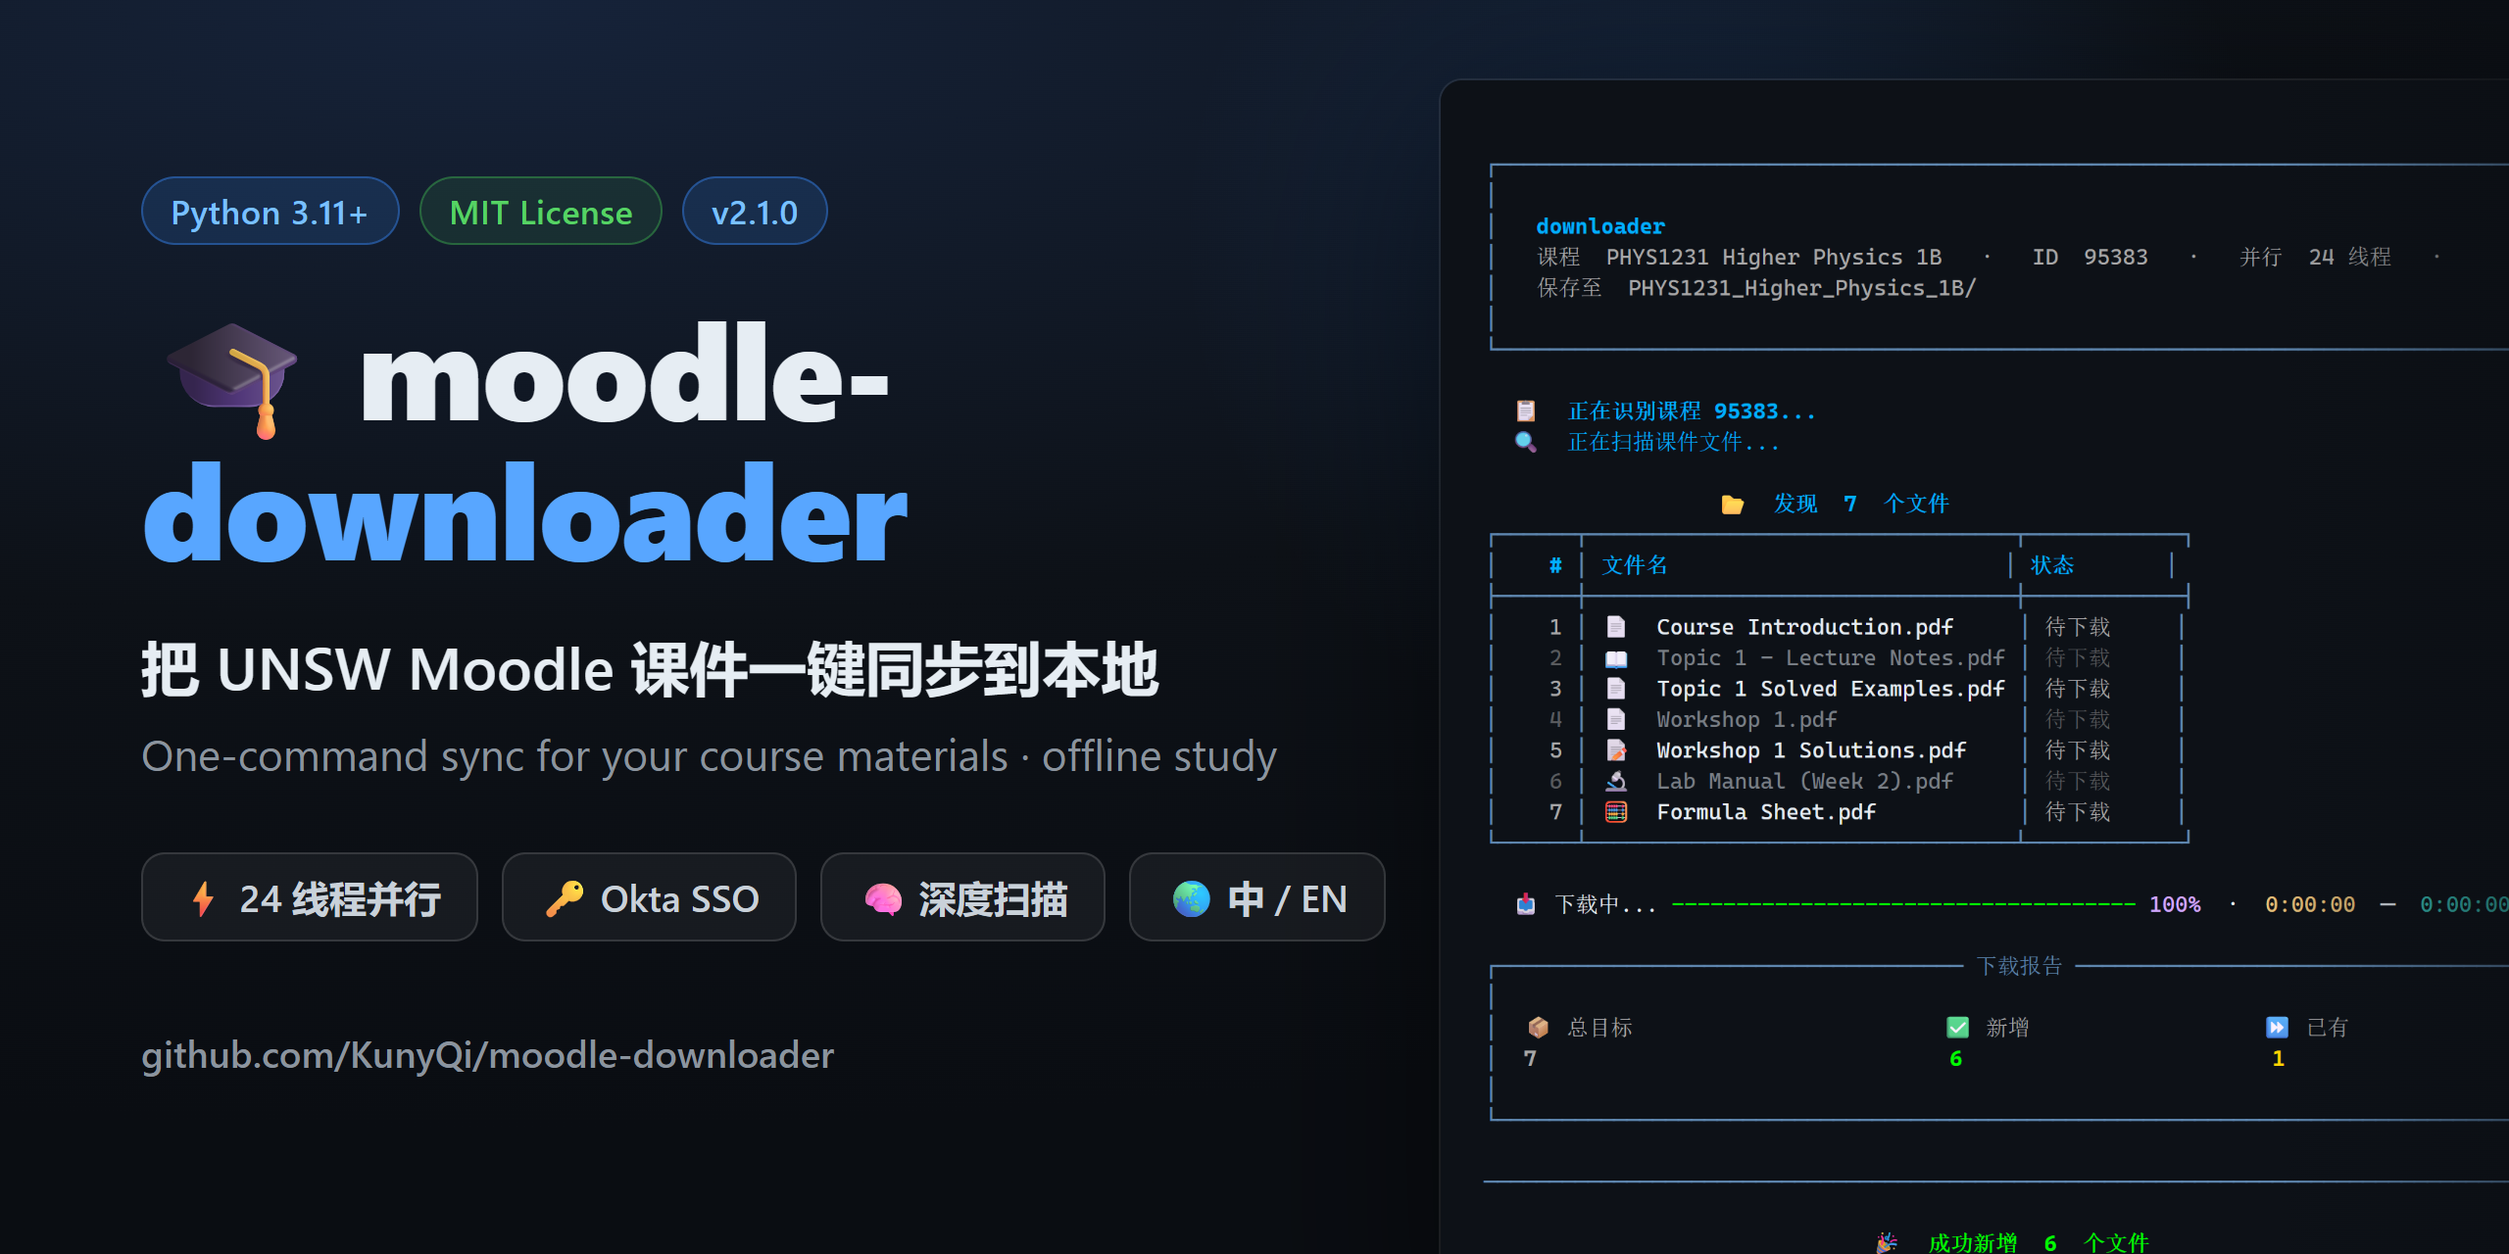
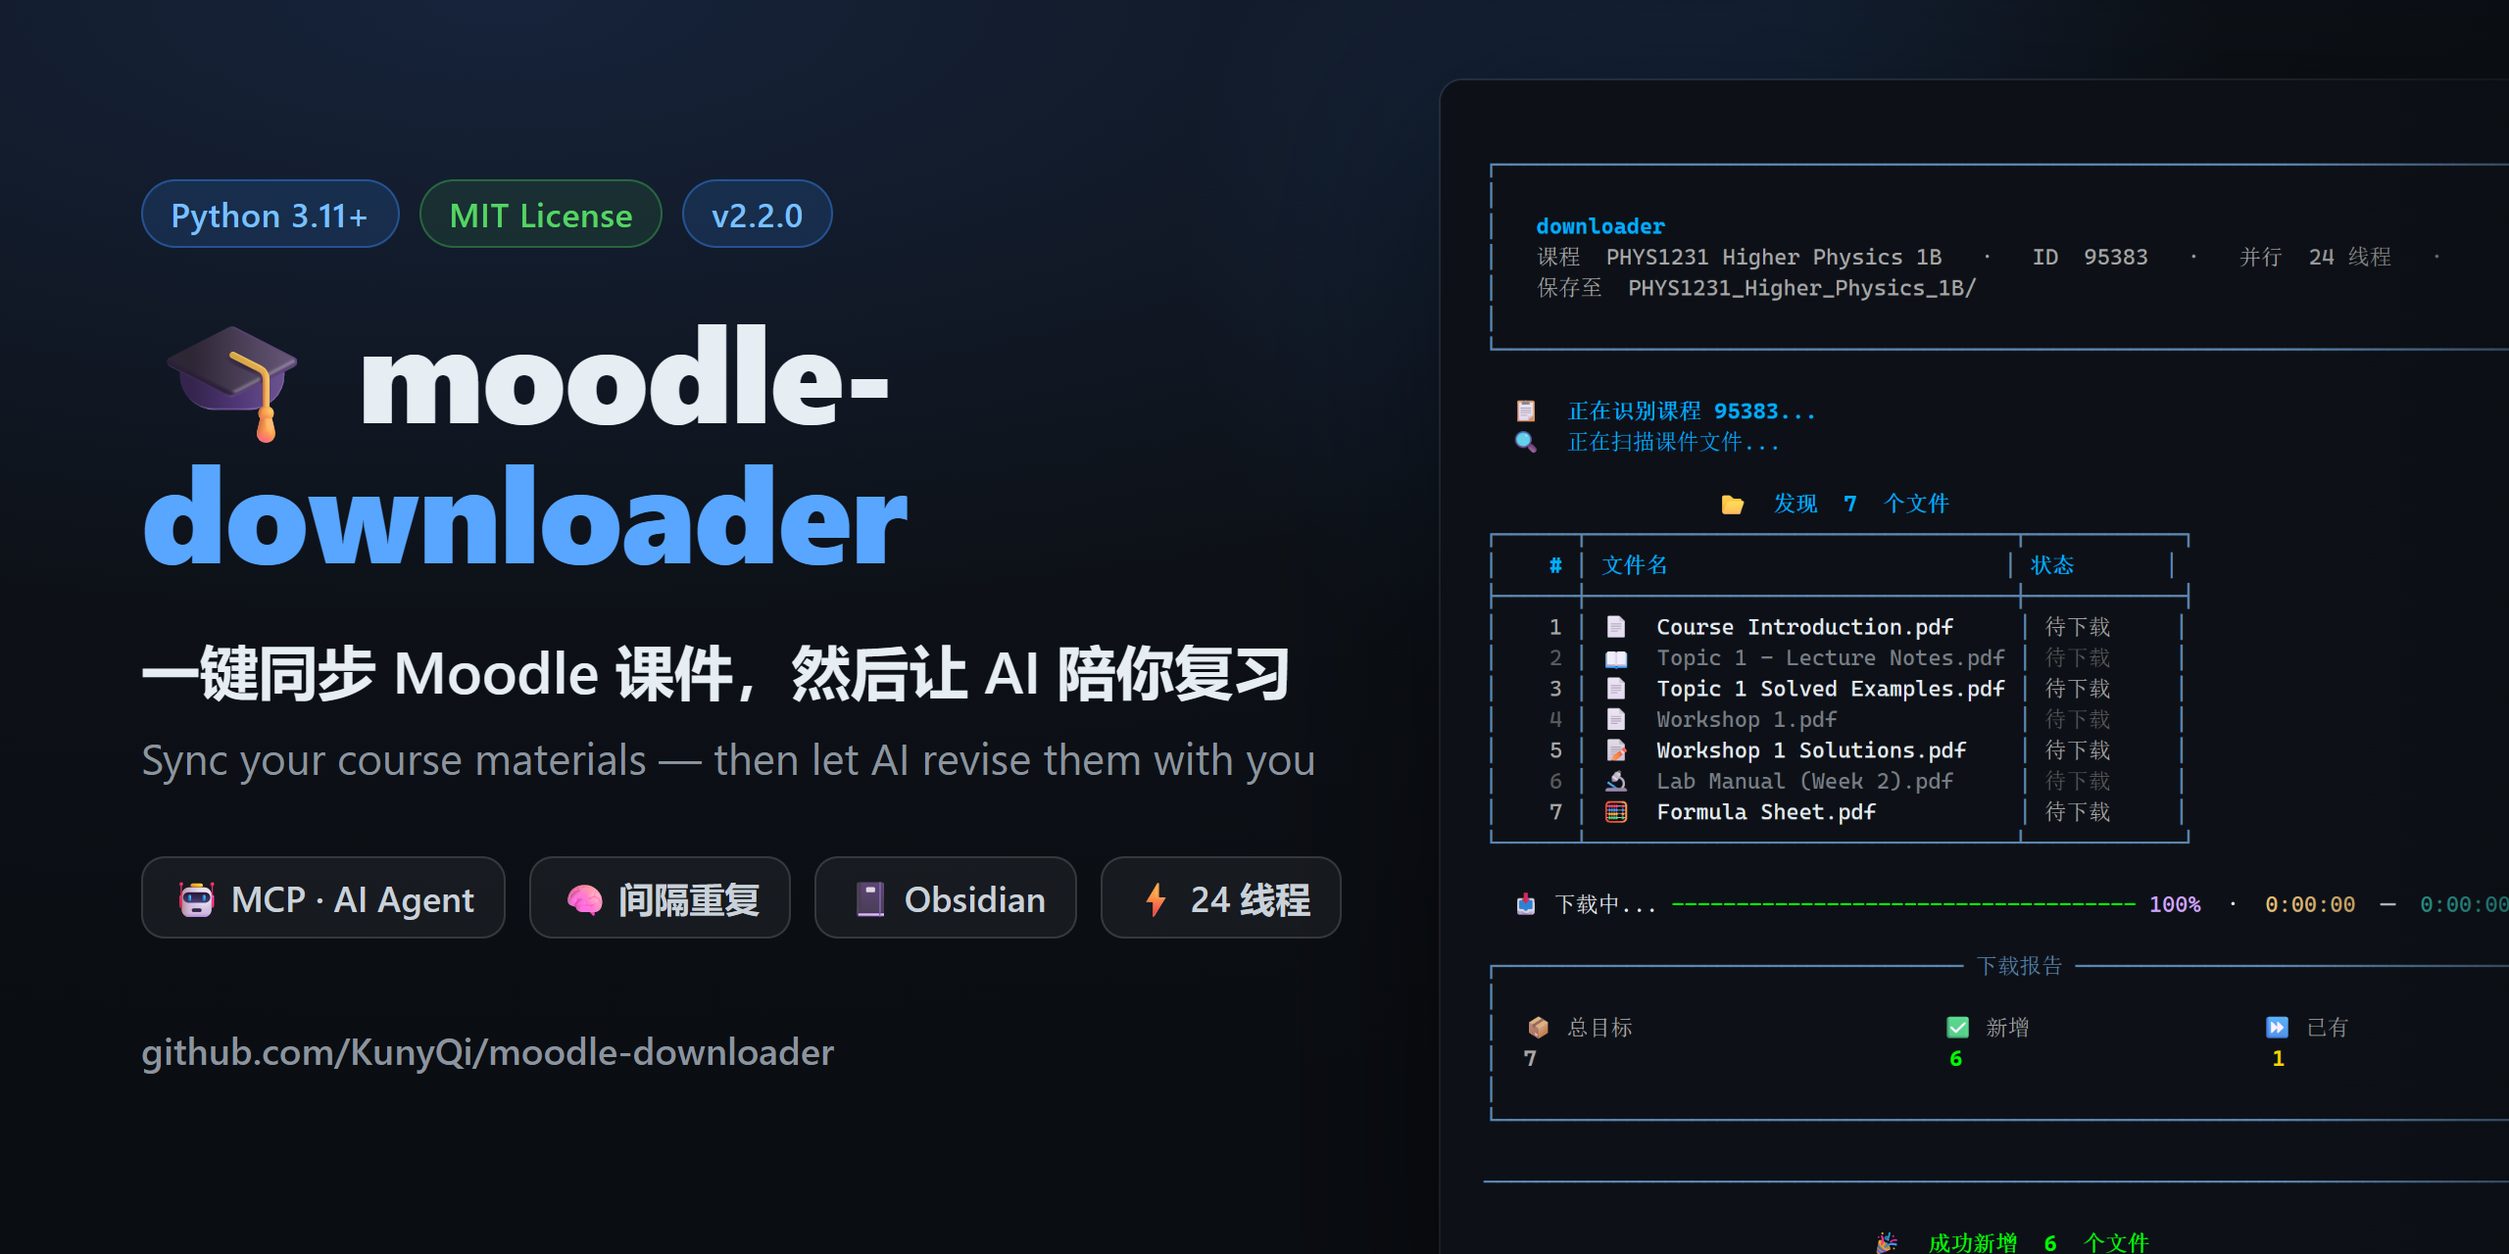
README 主打 AI 定位：主视觉、亮点与社交卡片同步更新
AI 学习层此前埋在配置章节之后，改为前置为核心卖点：

- 主标语改为「一键同步 Moodle 课件，然后让 AI 陪你复习」，
  新增 MCP 徽章与副标题条，版本徽章指向 releases
- 简介段落新增 AI 层介绍与跳转链接；工作原理补第 5 步「交给 AI」
- 亮点清单前三条改为 AI Agent 接入 / 间隔重复复习 / Obsidian + Jupyter，
  并补充「隐私优先」一条
- AI 章节新增真实对话示例，展示接上 agent 后可以直接说什么
- 新增两条 FAQ：AI 功能是否上传课件（如实说明云端 agent 会收到被读取的内容）、
  不用 AI 能否使用
- 章节锚点改用显式 HTML id，避免中文与 emoji 标题的锚点失效
- 社交卡片重做为 AI 定位（MCP · AI Agent / 间隔重复 / Obsidian / 24 线程），
  版本更新至 v2.2.0
- 中英两版内容镜像

未夸大：笔记中的「摘要」为提取的原文而非 AI 生成，文案未称其为 AI 摘要；
未声称任何厂商专有集成。

diff --git a/scripts/social_preview.html b/scripts/social_preview.html
@@ -33,8 +33,8 @@
   .tag-en { margin-top: 10px; font-size: 22px; color: #8b949e; }
   .chips { display: flex; flex-wrap: wrap; gap: 12px; margin-top: 36px; }
   .chip {
-    font-size: 19px; font-weight: 600;
-    padding: 9px 18px; border-radius: 12px;
+    font-size: 18px; font-weight: 600;
+    padding: 8px 15px; border-radius: 12px;
     background: rgba(255,255,255,.05);
     border: 1px solid rgba(255,255,255,.13);
     color: #c9d1d9;
@@ -69,16 +69,16 @@
     <div class="badge-row">
       <span class="mini-badge">Python 3.11+</span>
       <span class="mini-badge green">MIT License</span>
-      <span class="mini-badge">v2.1.0</span>
+      <span class="mini-badge">v2.2.0</span>
     </div>
     <h1>🎓 moodle-<span class="accent">downloader</span></h1>
-    <div class="tag-zh">把 UNSW Moodle 课件一键同步到本地</div>
-    <div class="tag-en">One-command sync for your course materials · offline study</div>
+    <div class="tag-zh">一键同步 Moodle 课件，然后让 AI 陪你复习</div>
+    <div class="tag-en">Sync your course materials — then let AI revise them with you</div>
     <div class="chips">
-      <span class="chip">⚡ 24 线程并行</span>
-      <span class="chip">🔑 Okta SSO</span>
-      <span class="chip">🧠 深度扫描</span>
-      <span class="chip">🌏 中 / EN</span>
+      <span class="chip">🤖 MCP · AI Agent</span>
+      <span class="chip">🧠 间隔重复</span>
+      <span class="chip">📓 Obsidian</span>
+      <span class="chip">⚡ 24 线程</span>
     </div>
     <div class="footer">
       <span class="repo">github.com/KunyQi/moodle-downloader</span>

diff --git a/README.md b/README.md
@@ -2,15 +2,22 @@
 
 # moodle-downloader
 
-**把你已选课程的 UNSW Moodle 课件一键同步到本地，离线学习。**
-**Sync course materials from your enrolled UNSW Moodle courses to your disk for offline study.**
+**一键同步 UNSW Moodle 课件到本地，然后让 AI 陪你复习。**
+**Sync your UNSW Moodle course materials — then let AI revise them with you.**
 
 [![Python 3.11+](https://img.shields.io/badge/python-3.11%2B-blue)](https://www.python.org/)
 [![License: MIT](https://img.shields.io/badge/license-MIT-green)](LICENSE)
 [![Tests](https://img.shields.io/badge/tests-passing-brightgreen)](tests/)
-[![Version](https://img.shields.io/badge/version-2.2.0-informational)](https://github.com/KunyQi/moodle-downloader)
+[![MCP](https://img.shields.io/badge/MCP-ready-8A63D2)](#ai-revision)
+[![Version](https://img.shields.io/badge/version-2.2.0-informational)](https://github.com/KunyQi/moodle-downloader/releases)
 
 [中文版](#中文版) · [English Version](#english-version)
+
+</div>
+
+<div align="center">
+
+**下载器 + AI 复习助手**　·　Okta SSO 登录　·　24 线程并行　·　MCP · Obsidian · Jupyter　·　中 / EN
 
 </div>
 
@@ -29,6 +36,10 @@
 
 `moodle-downloader` 是一个面向 UNSW Moodle（`moodle.telt.unsw.edu.au`）的课程资料下载器。它通过真实浏览器完成 Okta SSO 登录，自动列出你已选的课程，深度扫描课程页面里的 PDF、PPT 等文件，然后并行下载到本地。重复运行时只会补齐新增文件——把它当成课件的"同步"工具即可。
 
+**但下载只是开始。** v2.2.0 起，它内置一个 [MCP](https://modelcontextprotocol.io) 服务，把你的课件变成 **AI agent 能直接查询的知识库**——Claude Code、Claude Desktop 连上之后就能搜课件、看课程总览、排间隔重复复习计划，用你自己的讲义出题考你。还能一键导出 Obsidian 知识库和 Jupyter 复习笔记本。
+
+👉 **[跳到「接入 AI Agent 复习」](#ai-revision)**
+
 <p align="center">
   <img src="assets/demo-zh.png" alt="moodle-downloader 终端演示（由真实界面渲染生成）" width="760">
 </p>
@@ -39,9 +50,13 @@
 2. **选择课程** —— 自动列出你已选的全部课程，输入编号即可
 3. **深度扫描** —— 遍历课程主页与子页面，挖出所有嵌套课件链接
 4. **并行下载** —— 多线程同时下载，已有文件自动跳过，只补新增
+5. **交给 AI** —— 索引课件，接上 agent，开始复习
 
 ### 亮点
 
+- 🤖 **AI Agent 接入（MCP）** —— 内置 MCP 服务，Claude Code / Claude Desktop 等客户端直接连；5 个工具覆盖检索、总览与复习排期，手写 JSON-RPC，零额外依赖
+- 🧠 **间隔重复复习计划** —— 按周次与材料类型排序，摊到 N 天，自动安排 d-1 / d-3 / d-7 回顾
+- 📓 **Obsidian 知识库 + Jupyter 笔记本** —— 一条命令导出，笔记带 frontmatter、双链与「空白回忆」自测区
 - **真实浏览器登录，支持 Okta SSO** —— 通过 Selenium 打开浏览器窗口完成登录，cookies 本地持久化并复用，通常只需登录一次
 - **自动列出已选课程** —— 从 Moodle 首页读取你的课程列表，按编号选择，或直接输入课程 ID
 - **深度扫描** —— 除课程主页外，还会钻入子页面，找到别的工具漏掉的嵌套 / 内嵌文件
@@ -55,6 +70,7 @@
 - **浏览器自动检测** —— Chrome → Edge → Firefox 依次尝试，也可用 `--browser` 强制指定
 - **崩溃保护** —— 出错时控制台绝不闪退，错误信息完整可见
 - **Windows 一键启动** —— 双击 `启动下载器.bat` 即可使用
+- **隐私优先** —— 全程本地运行，不经手你的密码，不收集也不上传任何数据
 
 ### 安装
 
@@ -109,6 +125,8 @@ language = "zh"                           # 界面语言: "zh" 或 "en"
 # type = "chrome"                         # 留空 = 自动检测 (chrome → edge → firefox)
 ```
 
+<a id="ai-revision"></a>
+
 ### 🤖 接入 AI Agent 复习（v2.2.0 新增）
 
 下载只是第一步。这些命令把硬盘上的课件变成**可检索的知识库**，让 Claude Code、Claude Desktop 等 AI agent 直接带你复习——全部操作本地文件，**无需登录**。
@@ -140,7 +158,17 @@ claude mcp add moodle -- python -m moodle_scraper.mcp_server --root /path/to/mat
 | `search_materials` | 按关键词全文检索课件 |
 | `get_material_text` | 取出某份材料的正文 |
 | `course_overview` | 按周次 / 类型总览一门课 |
-| `revision_plan` | 把材料分配到 N 天的复习计划 |
+| `revision_plan` | 把材料分配到 N 天的复习计划，含 d-1/d-3/d-7 间隔重复 |
+
+接上之后，直接用大白话跟 agent 说：
+
+```text
+我 PHYS1231 下周考试，帮我排个 5 天复习计划
+Week 3 讲了什么？用讲义里的内容出 5 道题考我
+把所有提到「热力学第二定律」的材料找出来
+```
+
+agent 会调用上面的工具读你**本地真实的课件**来回答——不是凭空编的。
 
 **Obsidian 知识库**：每门课一个 MOC 索引页，材料按周分目录，每篇笔记带 YAML frontmatter（课程 / 周次 / 类型 / 标签）、原文件嵌入、`## 复习要点` 空白区和正文摘要，互相 wikilink 连通。
 
@@ -197,6 +225,20 @@ python -m pytest tests/ -q
 登录发生在你本机弹出的真实浏览器窗口里，工具不经手你的密码；它只把会话 cookie 保存在本地 `moodle_cookies.json`（已被 `.gitignore` 排除），不收集、不上传任何数据。代码全部开源，欢迎审计。
 </details>
 
+<details>
+<summary><b>AI 功能会把我的课件传到云端吗？</b></summary>
+
+工具本身不会。MCP 服务只在你本机运行，通过标准输入输出把数据交给你自己选择的 agent 客户端；索引、Obsidian 库、notebook 也都只写在本地磁盘。
+
+需要留意的是：**当你让某个云端 AI（比如 Claude）读取这些内容时，被读到的那部分自然会发送给该服务商**——这取决于你用的是哪个 agent，与本工具无关。想完全离线，可以接本地模型。
+</details>
+
+<details>
+<summary><b>没有 AI 也能用吗？</b></summary>
+
+当然。下载、扫描、过滤这些核心功能完全独立，AI 层是可选的。就算只用 `--obsidian` 导出知识库自己看，也不需要任何 agent。
+</details>
+
 ### 许可证
 
 [MIT](LICENSE)
@@ -213,6 +255,10 @@ python -m pytest tests/ -q
 
 `moodle-downloader` is a course-material downloader for UNSW Moodle (`moodle.telt.unsw.edu.au`). It signs you in through a real browser window (Okta SSO), lists the courses you are enrolled in, deep-scans course pages for PDFs, PPTs and other files, and downloads them in parallel. Re-running it only fetches what's new — think of it as "sync" for your lecture materials.
 
+**But downloading is only the start.** Since v2.2.0 it ships an [MCP](https://modelcontextprotocol.io) server that turns your materials into **a knowledge base AI agents can query directly** — connect Claude Code or Claude Desktop and it can search your files, summarise a course, build a spaced-repetition plan, and quiz you from your own lecture notes. One command also exports an Obsidian vault and a Jupyter revision notebook.
+
+👉 **[Jump to "AI agent revision"](#ai-revision-en)**
+
 <p align="center">
   <img src="assets/demo-en.png" alt="moodle-downloader terminal demo (rendered from the real UI)" width="760">
 </p>
@@ -223,9 +269,13 @@ python -m pytest tests/ -q
 2. **Pick a course** — all your enrolled courses are listed automatically; just type a number
 3. **Deep scan** — the course page and its sub-pages are crawled to surface every nested file link
 4. **Parallel download** — multi-threaded downloads that skip anything already on disk
+5. **Hand it to AI** — index the files, connect an agent, start revising
 
 ### Highlights
 
+- 🤖 **AI agent access (MCP)** — a built-in MCP server any client can connect to (Claude Code, Claude Desktop); 5 tools covering search, overview and revision planning, hand-rolled JSON-RPC with zero extra dependencies
+- 🧠 **Spaced-repetition planning** — materials ordered by week and kind, spread across N days, with automatic d-1 / d-3 / d-7 review slots
+- 📓 **Obsidian vault + Jupyter notebook** — one command each; notes ship with frontmatter, wikilinks and blank-recall self-testing
 - **Real-browser login with Okta SSO** — Selenium opens a browser window for you to sign in; cookies are persisted locally and reused, so login is usually one-time
 - **Lists your enrolled courses** — read straight from the Moodle dashboard; pick by number or enter a course ID directly
 - **Deep scan** — drills into course sub-pages to find nested / embedded files that other tools miss
@@ -239,6 +289,7 @@ python -m pytest tests/ -q
 - **Browser auto-detect** — tries Chrome → Edge → Firefox, or force one with `--browser`
 - **Crash guard** — the console never closes silently on error; you always see what went wrong
 - **Windows one-click launcher** — double-click `启动下载器.bat` and go
+- **Privacy-first** — everything runs locally; the tool never handles your password, collects nothing and uploads nothing
 
 ### Install
 
@@ -293,6 +344,8 @@ language = "en"                           # UI language: "zh" or "en"
 # type = "chrome"                         # empty = auto-detect (chrome → edge → firefox)
 ```
 
+<a id="ai-revision-en"></a>
+
 ### 🤖 AI agent revision (new in v2.2.0)
 
 Downloading is only step one. These commands turn the files on your disk into a **searchable knowledge base** that Claude Code, Claude Desktop and other AI agents can revise with you — all local, **no login required**.
@@ -324,7 +377,17 @@ It exposes 5 tools:
 | `search_materials` | Full-text search across your course files |
 | `get_material_text` | Pull the text of one material |
 | `course_overview` | Break a course down by week and type |
-| `revision_plan` | Split the material across an N-day plan |
+| `revision_plan` | Split the material across an N-day plan with d-1/d-3/d-7 review slots |
+
+Once connected, just talk to your agent in plain language:
+
+```text
+I have a PHYS1231 exam next week — build me a 5-day revision plan
+What was covered in week 3? Quiz me on it using the lecture notes
+Find every material that mentions the second law of thermodynamics
+```
+
+The agent answers by calling those tools against **your real local files** — not from memory.
 
 **Obsidian vault**: one MOC per course, materials bucketed by week, and every note carrying YAML frontmatter (course / week / kind / tags), an embed of the source file, a blank "key points" section and a text summary — all wikilinked together.
 
@@ -379,6 +442,20 @@ Check `[filters]` in `config.toml`. By default only filenames containing `lectur
 <summary><b>Is my account safe?</b></summary>
 
 You log in inside a real browser window on your own machine — the tool never sees your password. It only stores the session cookie locally in `moodle_cookies.json` (already in `.gitignore`), collects nothing, and uploads nothing. The code is fully open source — audit away.
+</details>
+
+<details>
+<summary><b>Do the AI features upload my materials to the cloud?</b></summary>
+
+Not by this tool. The MCP server runs entirely on your machine and hands data to whichever agent client *you* choose over stdio; the index, the Obsidian vault and the notebook are all written to local disk only.
+
+Worth being clear about: **when you ask a cloud AI (Claude, for instance) to read that content, the parts it reads do go to that provider** — that follows from the agent you picked, not from this tool. Point it at a local model if you want to stay fully offline.
+</details>
+
+<details>
+<summary><b>Can I use it without any AI?</b></summary>
+
+Absolutely. Downloading, scanning and filtering are completely independent — the AI layer is optional. Even `--obsidian` on its own is useful without ever connecting an agent.
 </details>
 
 ### License
